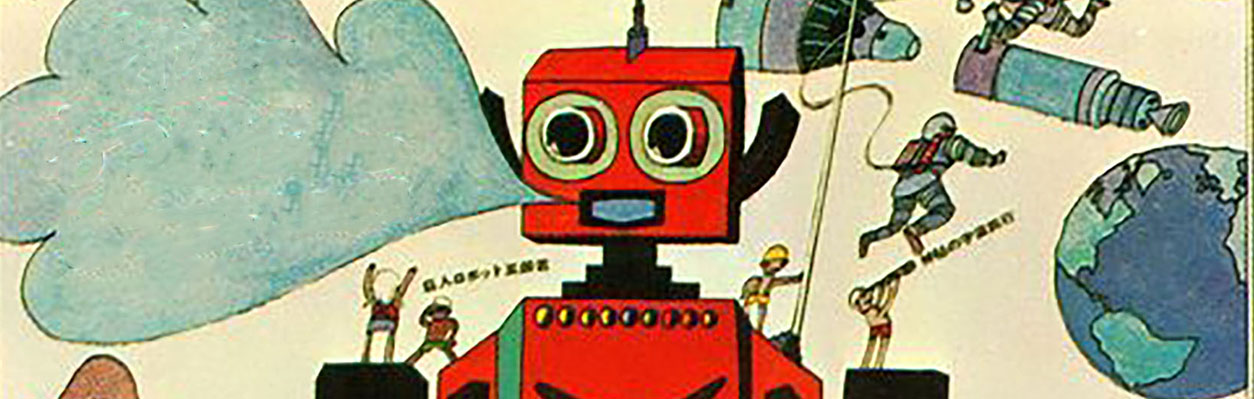
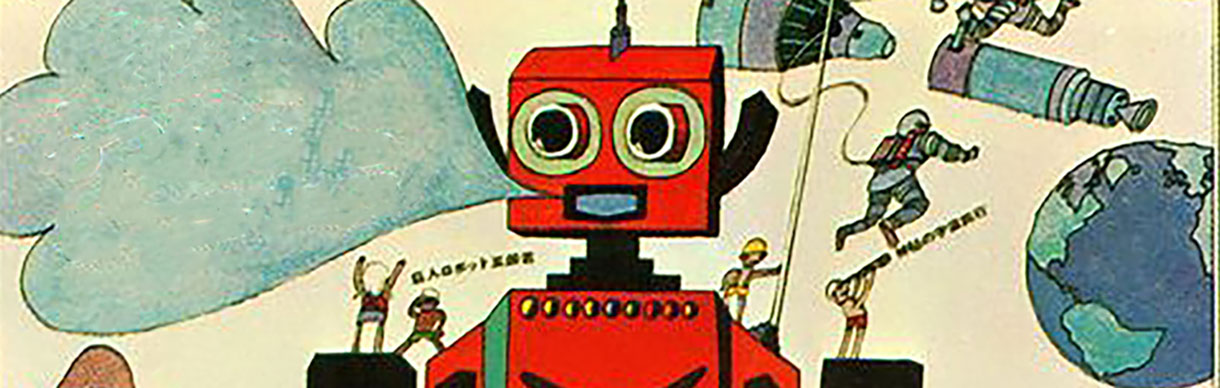
remove alert from numhood function and move it to outputString function

Changed region(s): [[0.7164, 0.3711, 0.7475, 0.4021]]

diff --git a/js/scripts.js b/js/scripts.js
@@ -1,9 +1,7 @@
 //bussiness logic
 
 function numberhood(number){
-  if (isNaN(number)) {
-    alert("Please input a number!");
-  } else if (number.toString().indexOf('3') > -1) {
+  if (number.toString().indexOf('3') > -1) {
       return "Won't you be my neighbor?";
   } else if (number.toString().indexOf('2') > -1) {
       return"Boop!";
@@ -18,10 +16,16 @@ let userInputArray = [];
 
 function outputString(number) {
   let numhoodArray = [];
+
+  if (isNaN(number)) {
+    alert("Please input a number!");
+  } else {
   userInputArray.forEach(function(number){
     numhoodArray.push(numberhood(number));
   });
+  console.log(numhoodArray);
   return numhoodArray.join(", ");
+  } 
 }
 
 //user interface logic
@@ -35,8 +39,6 @@ $(document).ready(function(){
 
     let userInput = parseInt($("input#input").val());
     userInputArray.push(userInput);
-
-    numberhood(userInput);
 
     $(".output2").text(outputString);
 

diff --git a/css/styles.css b/css/styles.css
@@ -11,7 +11,7 @@ body {
 .jumbotron {
   margin-top: 20px;
   background-image: url(../images/robot.jpg);
-  height: 400px;
+  height: 350px;
   border: solid black;
 }
 .jumbotron h1 {
@@ -24,7 +24,15 @@ body {
 .output1 {
   display: none;
   margin-top: 20px;
+  font-family: 'Share Tech Mono', monospace;
+  font-size: larger;
 }
+
+.output2 {
+  font-family: 'Share Tech Mono', monospace;
+  font-size: larger;
+}
+
 .output {
   display: none;
   margin-top: 10px;

diff --git a/README.md b/README.md
@@ -25,7 +25,7 @@ _Go to my GitHub repository here, [https://github.com/kaila-spraguemcrae/MrRobog
 4. _To view the website, open index.html in Chrome or your preferred browser._
 
 ## Known Bugs
-_no known bugs at this time_
+_NaN is being pushed to the Array_
 
 ## Support and contact details
 
